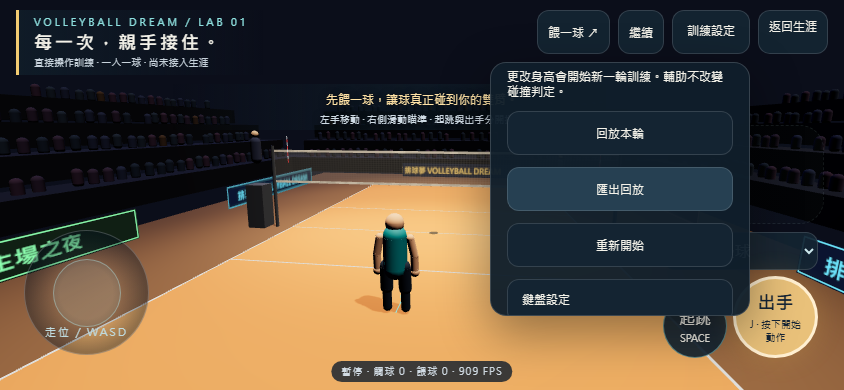
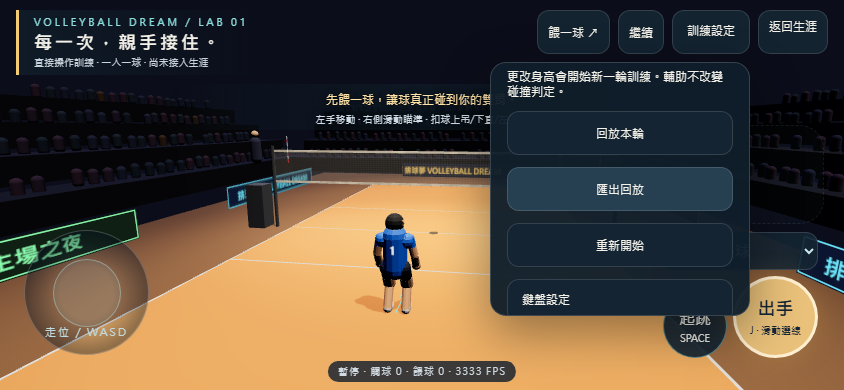
Document direct-v2 public PWA delivery

diff --git a/docs/experiments/direct-play-evidence/delivery.md b/docs/experiments/direct-play-evidence/delivery.md
@@ -1,16 +1,18 @@
-# 送達證明 — 2026-09-24
+# 公開 PWA 送達證明 — direct-v2（2026-09-24）
 
-- 實作提交：`ca8c035`；最後程式提交：`2b53e7e`（將效能文字改為本裝置量測）。兩者已推送 origin/main。
-- 指令 `npm run deploy:pages`：正式build成功、輸出 `Published`。
-- `git log origin/gh-pages -1 --format='%H %cI %s'`：`8a0577e17aafbd539aeea86a1a3262879e5a0ca1 2026-09-24T02:24:46+08:00 Updates`。
-- GitHub Pages 發布工作 [35902288221](https://github.com/9gf6p4448m-del/volleyball-dream/actions/runs/35902288221)：`completed / success`，head_sha與上述gh-pages相同。
-- 公開首頁HTTP 200，其入口為 `assets/index-BySfQBh-.js`，與本機dist/index.html相同。不是只檢查部署分支。
-- 對公開網址實跑 `node tools/direct-play-browser.mjs --delivery`，`DIRECT_BASE_URL=https://9gf6p4448m-del.github.io/volleyball-dream`。
-- 實際輸出：`PASS delivery: menu navigation, direct practice, export metadata; direct-v1 · 2026-09-24 02:24`。
-- 公開網站測試涵蓋：主選單入口可點、實際進入direct、匯出回放含裝置資訊、沒有fatal/pageerror，設定面板不被出手按鈕覆蓋。報告 `delivery-browser.json`，截圖 `menu-entry.png` / `delivery-settings.png`；截图已開圖核對。
+- 程式提交：`51f1f7436274f821998c97e00cf3867c711a34a6`，已推送 `origin/main`。
+- 指令 `npm run deploy:pages`：正式 build 成功，輸出 `Published`。
+- `git log origin/gh-pages -1 --format="%H %cI %s"`：`955e9961c835258349f4c57094cbc4486c58928e 2026-09-24T02:56:00+08:00 Updates`。
+- [GitHub Pages 發布工作 35905889489](https://github.com/9gf6p4448m-del/volleyball-dream/actions/runs/35905889489)：`completed / success`，head SHA 為 `955e9961c835258349f4c57094cbc4486c58928e`。
+- 對公開網址執行 `node tools/direct-play-browser.mjs --delivery`，環境變數 `DIRECT_BASE_URL=https://9gf6p4448m-del.github.io/volleyball-dream`。實際輸出：`PASS delivery: menu navigation, direct practice, export metadata; direct-v2 · 2026-09-24 02:55`。
+- 公開站測試涵蓋主選單入口、進入直接操作、回放匯出中裝置資訊、無 fatal/pageerror，以及設定面板與出手按鈕互不遮擋。證據：`delivery-browser.json`、`menu-entry.png`、`delivery-settings.png`。
 
-使用者入口：[直接操作訓練](https://9gf6p4448m-del.github.io/volleyball-dream/?mode=direct)，或PWA主選單「直接操作訓練 · 一人一球」。
+使用者入口：[直接操作訓練](https://9gf6p4448m-del.github.io/volleyball-dream/?mode=direct)，或 PWA 主選單「直接操作訓練 · 一人一球」。
 
-PWA若仍是舊版，完全關閉再開，並以Safari同網址核對訓練設定build為 `2026-09-24 02:24`。不要清除網站資料或刪除PWA，避免影響本機生涯存檔。
+若主畫面 PWA 還顯示舊版，完全關閉後重開，並用 Safari 同網址核對訓練設定 build 為 `2026-09-24 02:55`。不要清除網站資料或刪除 PWA，以免影響本機生涯存檔。
 
-範圍：送達的是階段1一人一球原型。iPhone14Pro真機60FPS、體感、完整6v6與生涯接入**未驗證／未實作**，不因本次發布成功而視為完成。
+本次送達的是階段 1 一人一球 direct-v2。iPhone 14 Pro 真機觸控手感、持續 60 FPS、完整 6v6 與生涯整合尚未驗證或實作。
+
+## 前版紀錄
+
+direct-v1 程式提交 `ca8c035`、效能文字提交 `2b53e7e`，於 `2026-09-24T02:24:46+08:00` 發布為 gh-pages `8a0577e17aafbd539aeea86a1a3262879e5a0ca1`；[發布工作 35902288221](https://github.com/9gf6p4448m-del/volleyball-dream/actions/runs/35902288221) 成功。當時公開站測試輸出 `PASS delivery: menu navigation, direct practice, export metadata; direct-v1 · 2026-09-24 02:24`，已由本次 direct-v2 取代。

diff --git a/README.md b/README.md
@@ -17,15 +17,11 @@ npm run build    # 正式建置（含 PWA service worker）
 npm run preview  # 本機預覽正式建置
 ```
 
-## 真機測試步驟（舊比賽 HUD）
+## 直接操作真機測試
 
-1. `npm run build && npm run preview -- --host`，手機連同一 Wi-Fi 開 `http://<電腦IP>:4173/?mode=direct` 測直接操作；不加查詢參數會進既有生涯。
-   （或部署到任何 HTTPS 靜態主機；**加到主畫面需要 HTTPS**，本機 IP 測 FPS 不受影響）
-2. 看左上角 HUD：
-   - **大數字 = FPS**（不鎖幀；120Hz 裝置會顯示 >60 的真實數值）
-   - `render X ms/幀`＝畫面每幀耗時；`sim 60 Hz（固定60）`＝模擬固定步長，恆為 60
-   - `三角形/draw calls`＝目前場景負載
-3. 驗收標準（ROADMAP）：**穩定 60 FPS 為硬底線**；120Hz 裝置另記錄不鎖幀數值。
+1. 在 iPhone 14 Pro 的 Safari 或主畫面 PWA 開啟[公開直接操作訓練](https://9gf6p4448m-del.github.io/volleyball-dream/?mode=direct)，確認主選單 build 時間與[送達紀錄](docs/experiments/direct-play-evidence/delivery.md)一致。
+2. 左手走位、右手瞄準並起跳，按住出手再往上／下／左／右滑動；觀察觸球部位、方向、落地與魚躍。訓練底欄顯示 FPS、frame p95、sim p95、backlog 與 draw calls；在訓練設定匯出回放，保留裝置與模擬版本資訊。
+3. 驗收目標是實機持續 60 FPS、碰撞與畫面一致、雙手觸控不互相中斷；目前仍待真機驗證。若 PWA 保留舊版，完全關閉重開並比對 build；不要清除網站資料，以免影響本機生涯存檔。
 
 ## 逐項降規找上限（Phase 0 基準場 URL 參數）
 

diff --git a/docs/handoffs/direct-play-motion-v2.md b/docs/handoffs/direct-play-motion-v2.md
@@ -2,7 +2,7 @@
 
 ## 接手順序
 
-先讀 `docs/DIRECT_PLAY_BLUEPRINT.md`，再看本檔與 `docs/experiments/direct-play-evidence/motion-v2-verification.md`、`motion-browser.json`、`browser-report.json`。前一個可玩版是 `bfc867c`，回退分支 `checkpoint/direct-play-before-motion-bfc867c`。`docs/handoffs/direct-play-stage1.md` 記錄前版 direct-v1，測試數字與「膠囊造型尚非正式動作」敘述是當時狀態。
+先讀 `docs/DIRECT_PLAY_BLUEPRINT.md`，再看本檔與 `docs/experiments/direct-play-evidence/motion-v2-verification.md`、`motion-browser.json`、`browser-report.json`、`delivery.md`（公開 PWA 送達證明）。前一個可玩版是 `bfc867c`，回退分支 `checkpoint/direct-play-before-motion-bfc867c`。`docs/handoffs/direct-play-stage1.md` 記錄前版 direct-v1，測試數字與「膠囊造型尚非正式動作」敘述是當時狀態。
 
 ## 這輪可玩的改動
 
